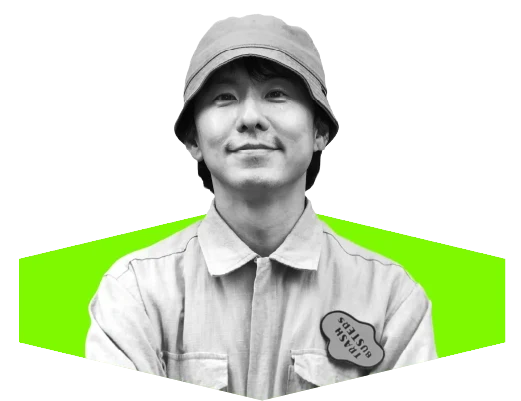
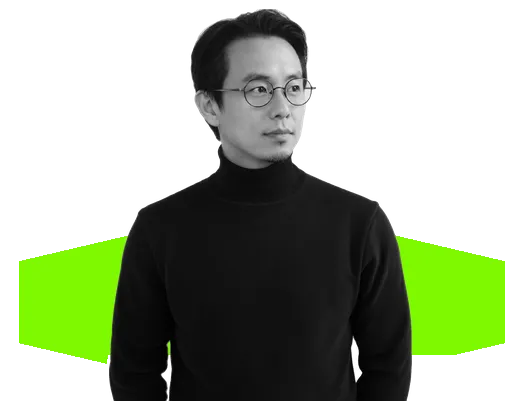
퓨처스테이지 추가

diff --git a/js/content.js b/js/content.js
@@ -6,28 +6,28 @@
 window.WCIF_CONTENT = {
   "popup": {
     "enabled": true,
-    "url": "index.html#location",
+    "url": "hackathon.html",
     "kor": {
-      "label": "Notice",
-      "title": "오시는 길 안내",
+      "label": "Hackathon",
+      "title": "해커톤 참가자 모집",
       "lines": [
-        "행사장 · 호텔수성 (대구 수성구 용학로 106-7)",
-        "일시 · 2026.07.02(목) - 07.03(금)",
-        "원활한 입장을 위해 사전등록 후 방문을 권장드립니다."
+        "하이프크래프트 · WCIF 문화 해커톤",
+        "모집 · 2026.06.16(화) ~ 06.19(금) 14:00",
+        "대구·수성구의 유휴 공간을 문화로 되살리는 청년 아이디어 경진대회 (선착순 10팀)"
       ],
-      "btn": "지도에서 위치 보기",
+      "btn": "해커톤 신청 안내 보기",
       "hide": "오늘 하루 보지 않기",
       "close": "닫기"
     },
     "eng": {
-      "label": "Notice",
-      "title": "Getting to WCIF 2026",
+      "label": "Hackathon",
+      "title": "Hackathon Open Call",
       "lines": [
-        "Venue · Hotel Susung (Yonghak-ro 106-7, Suseong-gu, Daegu)",
-        "Dates · July 2 (Thu) - 3 (Fri), 2026",
-        "Pre-registration is recommended for smooth entry."
+        "Hypercraft · WCIF Culture Hackathon",
+        "Applications · Jun 16 (Tue) – Jun 19 (Fri), 2026, 14:00",
+        "An idea competition reviving idle spaces in Daegu & Suseong-gu through culture (first-come, 10 teams)"
       ],
-      "btn": "View on Map",
+      "btn": "View Hackathon Details",
       "hide": "Don't show again today",
       "close": "Close"
     }
@@ -142,9 +142,11 @@ window.WCIF_CONTENT = {
   "futureStage": [
     { "featured": false, "img": "images/speakers/card/baek-kwanghyun.webp", "role": "패널", "roleEng": "Panel", "kor": { "name": "백광현", "title": "모드하우스 부대표" }, "eng": { "name": "Kwang Hyun Baek", "title": "Co-founder, Modhaus" } },
     { "featured": false, "img": "images/speakers/card/kim-miso.webp", "role": "패널", "roleEng": "Panel", "kor": { "name": "김미소", "title": "DMZ 피스트레인 총감독" }, "eng": { "name": "Miso Kim", "title": "Executive Director, DMZ Peace Train Music Festival" } },
+    { "featured": false, "img": "images/speakers/card/jin-sol.webp", "role": "패널", "roleEng": "Panel", "kor": { "name": "진솔", "title": "(사)국제소셜인플루언서협회 이사" }, "eng": { "name": "Jin Sol", "title": "Director, Int'l Social Influencer Association" } },
     { "featured": false, "img": "images/speakers/card/kim-kyunghoon.webp", "role": "호스트", "roleEng": "Host", "kor": { "name": "김경훈", "title": "MC 훈 전문 사회자" }, "eng": { "name": "Kyung Hun Kim", "title": "Professional MC & Reporter, MC HUN" } },
     { "featured": false, "img": "images/speakers/card/gwak-jaewon.webp", "role": "패널", "roleEng": "Panel", "kor": { "name": "곽재원", "title": "트래쉬버스터즈 대표" }, "eng": { "name": "Jae Won Gwak", "title": "CEO, Trash Busters" } },
     { "featured": false, "img": "images/speakers/card/jang-eunseok.webp", "role": "패널", "roleEng": "Panel", "kor": { "name": "장은석", "title": "수무 대표" }, "eng": { "name": "Eunserk Chang", "title": "Principal Designer, SUMU" } },
+    { "featured": false, "img": "images/speakers/card/choi-jaesik.webp", "role": "패널", "roleEng": "Panel", "kor": { "name": "최재식", "title": "로우리트콜렉티브 대표" }, "eng": { "name": "Jae Sik Choi", "title": "CEO, Lowlit Collective" } },
     { "featured": false, "img": "images/speakers/card/jung-juhee.webp", "role": "호스트", "roleEng": "Host", "kor": { "name": "정주희", "title": "기후캐스터 크리에이터" }, "eng": { "name": "Juhee Jung", "title": "Creator, climate caster" } },
     { "featured": false, "img": "images/speakers/card/lee-boyoung.webp", "role": "패널", "roleEng": "Panel", "kor": { "name": "이보영", "title": "워크모어 운영총괄" }, "eng": { "name": "Boyoung Lee", "title": "COO, WORKMORE" } },
     { "featured": false, "img": "images/speakers/card/agon.webp", "role": "패널", "roleEng": "Panel", "kor": { "name": "아곤", "title": "포뮬라랩스 대표" }, "eng": { "name": "Agon", "title": "CEO, Formula Labs" } },

diff --git a/index.html b/index.html
@@ -74,29 +74,29 @@
       <a href="program.html" class="link-more">2026 Program 더보기 →</a>
     </div>
     <div class="track-grid reveal">
-      <a class="track-card" href="program.html#program2026">
+      <a class="track-card main-track" href="program.html">
         <div>
-          <div class="track-no">Track 1</div>
-          <h3>Culture-Based Urban Development Strategy</h3>
-          <p>문화 기반 도시발전 전략</p>
+          <div class="track-no">2026 WCIF</div>
+          <h3>World Cultural Industry Forum</h3>
+          <p>제7회 세계문화산업포럼 본 행사. 문화 기반 도시발전, K-뮤지컬, 한·일 특별 공동 세미나 등 트랙별 세미나와 참가 연사를 만나보세요.</p>
         </div>
-        <div class="track-tag">Forum Session →</div>
+        <div class="track-tag">Main Forum →</div>
       </a>
-      <a class="track-card" href="program.html#program2026">
+      <a class="track-card" href="future-stage.html">
         <div>
-          <div class="track-no">Track 2</div>
-          <h3>The Future of K-Musicals</h3>
-          <p>K-뮤지컬의 미래 (DIMF 20주년 기념)</p>
+          <div class="track-no">Future Stage</div>
+          <h3>Culture &amp; Trend Insight</h3>
+          <p>신선한 문화 트렌드를 이끄는 트렌드세터들의 자유로운 오픈 팟캐스트가 펼쳐지는 특별 무대.</p>
         </div>
-        <div class="track-tag">Forum Session →</div>
+        <div class="track-tag">Special Program →</div>
       </a>
-      <a class="track-card main-track" href="program.html#program2026">
+      <a class="track-card" href="hackathon.html">
         <div>
-          <div class="track-no">Main Track</div>
-          <h3>Korea-Japan Special Joint Seminar</h3>
-          <p>도시 간 협력을 통한 문화관광 활성화<br>Revitalizing Cultural Tourism Through Cross-City Cooperation</p>
+          <div class="track-no">Hackathon</div>
+          <h3>Hypercraft Culture Hackathon</h3>
+          <p>대구·수성구의 유휴·노후 공간을 문화산업으로 되살리는 청년 아이디어 경진대회.</p>
         </div>
-        <div class="track-tag">Special Seminar →</div>
+        <div class="track-tag">Culture Hackathon →</div>
       </a>
     </div>
   </div>

diff --git a/en/index.html b/en/index.html
@@ -74,28 +74,29 @@
       <a href="program.html" class="link-more">View 2026 Program →</a>
     </div>
     <div class="track-grid reveal">
-      <a class="track-card" href="program.html#program2026">
+      <a class="track-card main-track" href="program.html">
         <div>
-          <div class="track-no">Track 1</div>
-          <h3>Culture-Based Urban Development Strategy</h3>
+          <div class="track-no">2026 WCIF</div>
+          <h3>World Cultural Industry Forum</h3>
+          <p>The main forum, featuring culture-based urban development, K-musicals, the Korea-Japan special joint seminar, and the 2026 speakers.</p>
         </div>
-        <div class="track-tag">Forum Session →</div>
+        <div class="track-tag">Main Forum →</div>
       </a>
-      <a class="track-card" href="program.html#program2026">
+      <a class="track-card" href="future-stage.html">
         <div>
-          <div class="track-no">Track 2</div>
-          <h3>The Future of K-Musicals</h3>
-          <p>DIMF 20th Anniversary</p>
+          <div class="track-no">Future Stage</div>
+          <h3>Culture &amp; Trend Insight</h3>
+          <p>A special stage of free, open podcasts hosted by trendsetters leading fresh cultural trends.</p>
         </div>
-        <div class="track-tag">Forum Session →</div>
+        <div class="track-tag">Special Program →</div>
       </a>
-      <a class="track-card main-track" href="program.html#program2026">
+      <a class="track-card" href="hackathon.html">
         <div>
-          <div class="track-no">Main Track</div>
-          <h3>Korea-Japan Special Joint Seminar</h3>
-          <p>Revitalizing Cultural Tourism Through Cross-City Cooperation</p>
+          <div class="track-no">Hackathon</div>
+          <h3>Hypercraft Culture Hackathon</h3>
+          <p>An idea competition reviving the idle and aging spaces of Daegu and Suseong-gu through the cultural industry.</p>
         </div>
-        <div class="track-tag">Special Seminar →</div>
+        <div class="track-tag">Culture Hackathon →</div>
       </a>
     </div>
   </div>

diff --git a/program.html b/program.html
@@ -76,6 +76,14 @@
         </div>
         <div class="track-tag">Forum Session</div>
       </article>
+      <article class="track-card main-track">
+        <div>
+          <div class="track-no">Main</div>
+          <h3>Korea-Japan Special Joint Seminar</h3>
+          <p>한일 특별 공동 세미나. 도시 간 협력을 통한 문화관광 활성화(Revitalizing Cultural Tourism Through Cross-City Cooperation)를 주제로 진행됩니다.</p>
+        </div>
+        <div class="track-tag">Special Seminar</div>
+      </article>
       <article class="track-card">
         <div>
           <div class="track-no">Track 2</div>
@@ -83,14 +91,6 @@
           <p>K-뮤지컬의 미래. DIMF(대구국제뮤지컬페스티벌) 20주년을 기념하여 한국 뮤지컬 산업의 세계화 전략을 모색합니다.</p>
         </div>
         <div class="track-tag">DIMF 20th Anniversary</div>
-      </article>
-      <article class="track-card main-track">
-        <div>
-          <div class="track-no">Main Track</div>
-          <h3>Korea-Japan Special Joint Seminar</h3>
-          <p>한일 특별 공동 세미나. 도시 간 협력을 통한 문화관광 활성화(Revitalizing Cultural Tourism Through Cross-City Cooperation)를 주제로 진행됩니다.</p>
-        </div>
-        <div class="track-tag">Special Seminar</div>
       </article>
     </div>
     <div id="schedule-root" style="margin-top:2.5rem"></div>
@@ -101,7 +101,6 @@
   <div class="container">
     <div class="section-head-row reveal">
       <h2 class="section-title">참가 연사<span class="en">2026 Speakers</span></h2>
-      <a href="archive.html" class="link-more">역대 행사 아카이빙 →</a>
     </div>
     <p class="section-desc reveal" style="margin-top:-1.5rem;margin-bottom:2.5rem">연사 사진을 클릭하면 소개와 관련 기사를 볼 수 있습니다.</p>
     <div class="speaker-grid cols-4 reveal" id="speakers-root"></div>

diff --git a/en/program.html b/en/program.html
@@ -75,6 +75,14 @@
         </div>
         <div class="track-tag">Forum Session</div>
       </article>
+      <article class="track-card main-track">
+        <div>
+          <div class="track-no">Main</div>
+          <h3>Korea-Japan Special Joint Seminar</h3>
+          <p>Revitalizing Cultural Tourism Through Cross-City Cooperation.</p>
+        </div>
+        <div class="track-tag">Special Seminar</div>
+      </article>
       <article class="track-card">
         <div>
           <div class="track-no">Track 2</div>
@@ -82,14 +90,6 @@
           <p>Celebrating the 20th anniversary of DIMF (Daegu International Musical Festival), exploring the globalization of the Korean musical industry.</p>
         </div>
         <div class="track-tag">DIMF 20th Anniversary</div>
-      </article>
-      <article class="track-card main-track">
-        <div>
-          <div class="track-no">Main Track</div>
-          <h3>Korea-Japan Special Joint Seminar</h3>
-          <p>Revitalizing Cultural Tourism Through Cross-City Cooperation.</p>
-        </div>
-        <div class="track-tag">Special Seminar</div>
       </article>
     </div>
     <div id="schedule-root" style="margin-top:2.5rem"></div>
@@ -100,7 +100,6 @@
   <div class="container">
     <div class="section-head-row reveal">
       <h2 class="section-title">2026 Speakers</h2>
-      <a href="archive.html" class="link-more">WCIF Archive →</a>
     </div>
     <p class="section-desc reveal" style="margin-top:-1.5rem;margin-bottom:2.5rem">Click a speaker's photo to see their bio and related articles.</p>
     <div class="speaker-grid cols-4 reveal" id="speakers-root"></div>

diff --git a/hackathon.html b/hackathon.html
@@ -76,7 +76,7 @@
   <div class="container reveal">
     <div class="section-head-row"><h2 class="section-title">주요 일정<span class="en">Schedule</span></h2></div>
     <dl class="hack-dl">
-      <div><dt>참가자 모집</dt><dd>26.06.15(월) ~ 26.06.19(금) 14:00</dd></div>
+      <div><dt>참가자 모집</dt><dd>26.06.16(화) ~ 26.06.19(금) 14:00</dd></div>
       <div><dt>참가자 OT</dt><dd>26.06.19(금) 18:00 · 온라인 설명회 (미참석 시 해커톤 참여 불가)</dd></div>
       <div><dt>해커톤 기간</dt><dd>설명회 종료 시 ~ 26.06.26(금) 14:00</dd></div>
       <div><dt>선정작 발표</dt><dd>26.07.03(금) 14:00 · 2026 WCIF 행사 참여</dd></div>

diff --git a/en/hackathon.html b/en/hackathon.html
@@ -76,7 +76,7 @@
   <div class="container reveal">
     <div class="section-head-row"><h2 class="section-title">Schedule<span class="en">Schedule</span></h2></div>
     <dl class="hack-dl">
-      <div><dt>Application</dt><dd>Jun 15 (Mon) – Jun 19 (Fri), 2026, 14:00</dd></div>
+      <div><dt>Application</dt><dd>Jun 16 (Tue) – Jun 19 (Fri), 2026, 14:00</dd></div>
       <div><dt>Orientation</dt><dd>Jun 19 (Fri) 18:00 · Online briefing (attendance required to participate)</dd></div>
       <div><dt>Hackathon</dt><dd>From the end of the briefing – Jun 26 (Fri), 2026, 14:00</dd></div>
       <div><dt>Results</dt><dd>Jul 3 (Fri) 14:00 · Presented at 2026 WCIF</dd></div>
